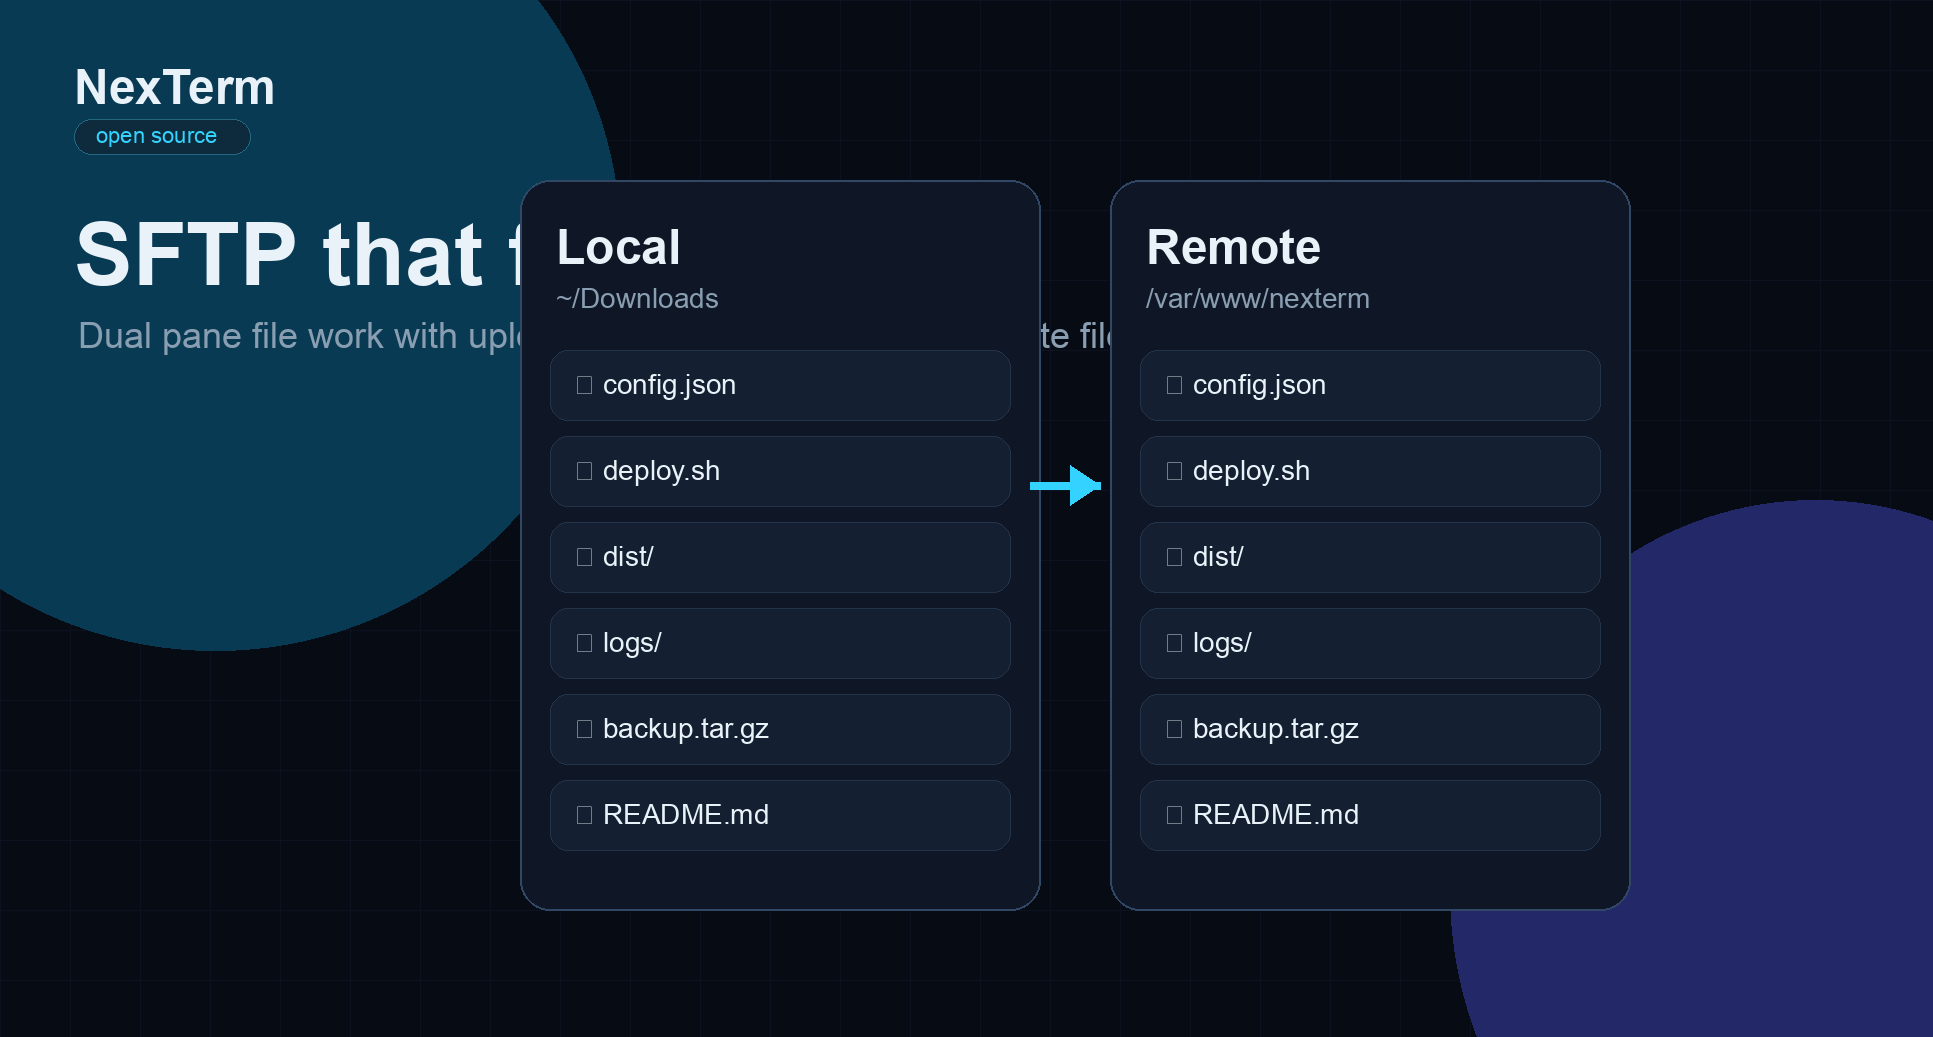
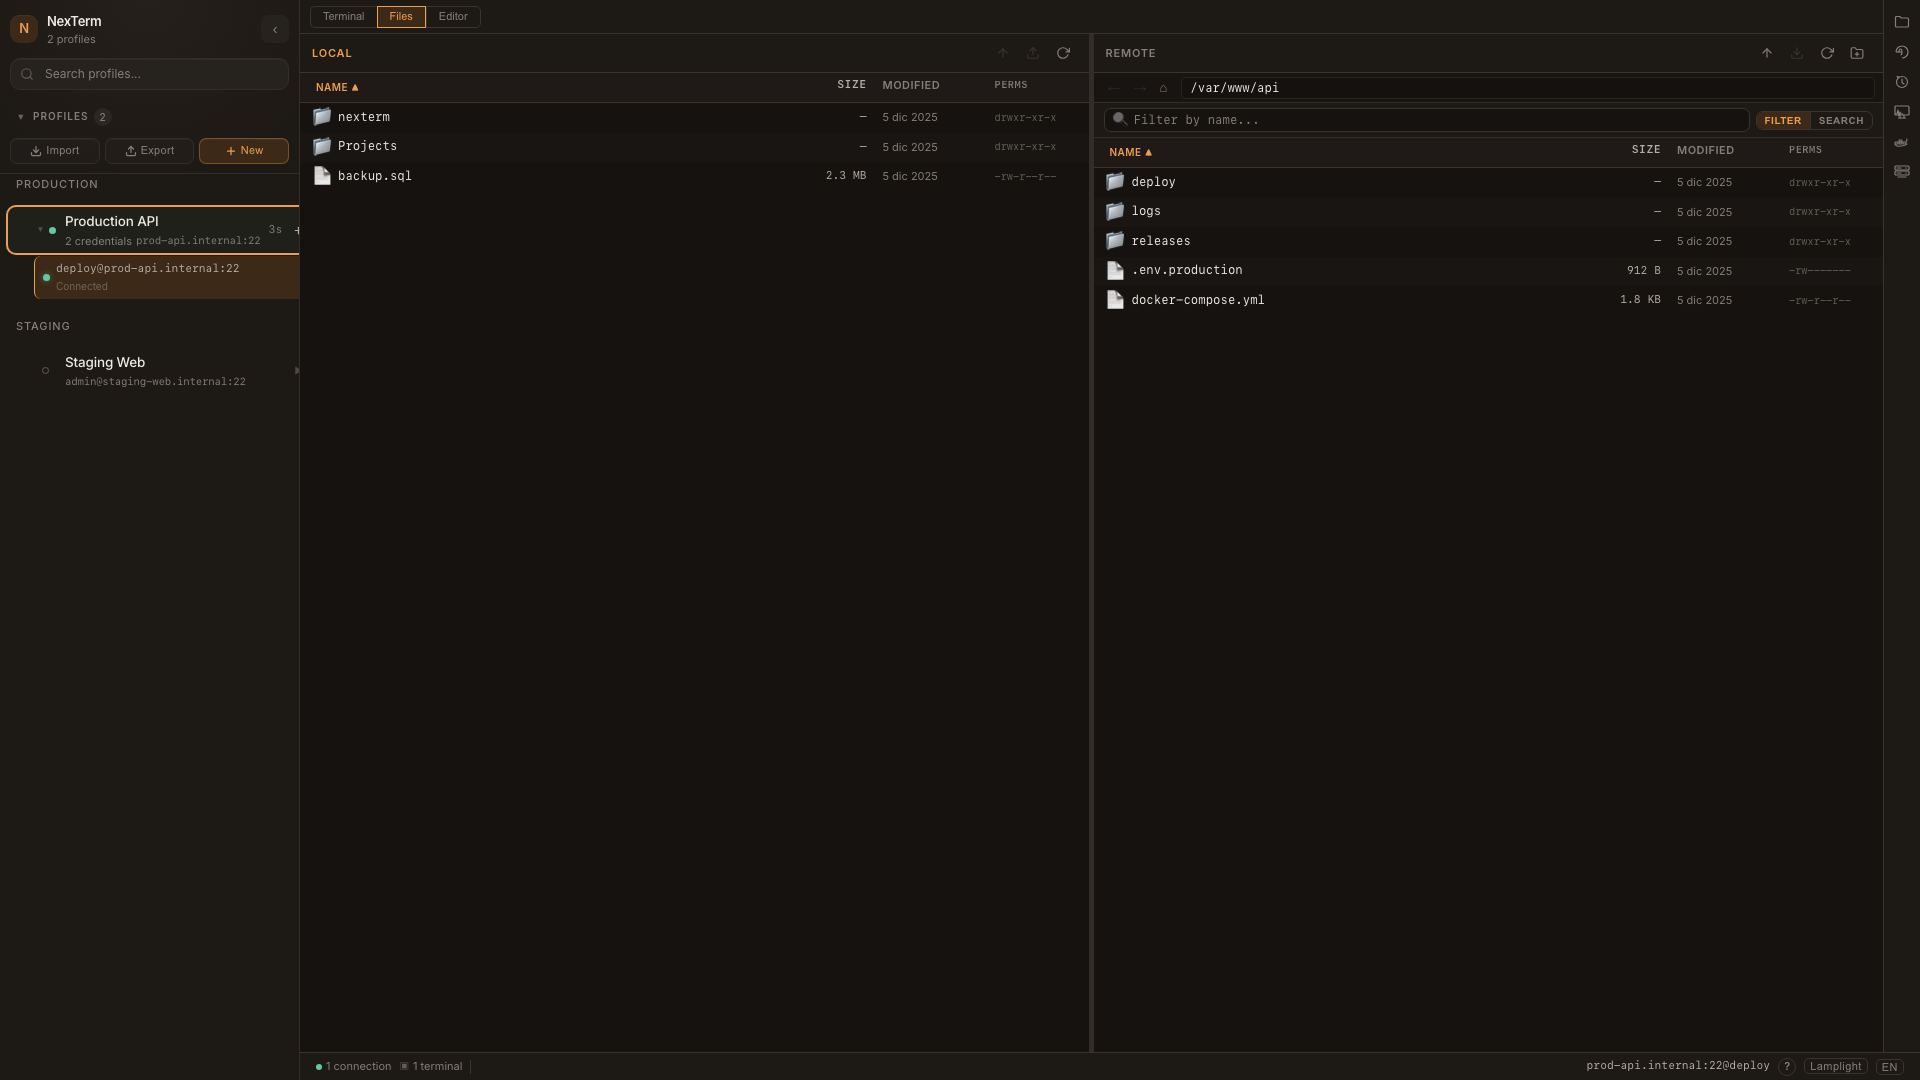
docs: update README screenshots and release notes

diff --git a/README.md b/README.md
@@ -5,7 +5,7 @@
 ### A modern open-source SSH workspace for people who live on servers.
 
 [![License: MIT](https://img.shields.io/badge/License-MIT-blue.svg)](LICENSE)
-[![macOS](https://img.shields.io/badge/macOS-supported-black?logo=apple&logoColor=white)](https://github.com/JeffersonAlvarez16/nexterm/releases)
+[![Latest release](https://img.shields.io/github/v/release/JeffersonAlvarez16/nexterm?label=latest)](https://github.com/JeffersonAlvarez16/nexterm/releases/latest)
 [![Tauri 2](https://img.shields.io/badge/Tauri-2-FFC131?logo=tauri&logoColor=white)](https://v2.tauri.app)
 [![Rust](https://img.shields.io/badge/Rust-backend-DEA584?logo=rust&logoColor=black)](https://www.rust-lang.org)
 [![React 19](https://img.shields.io/badge/React-19-61DAFB?logo=react&logoColor=black)](https://react.dev)
@@ -24,13 +24,15 @@ It is built with **Tauri 2**, **Rust**, **React 19** and **TypeScript**, so it s
 
 ## Preview
 
+Screenshots below are captured from the running NexTerm UI with local demo data. They are product captures, not marketing mockups.
+
 <div align="center">
 
-| Terminal | Profiles |
+| Workspace | Terminal |
 |:---:|:---:|
-| ![NexTerm terminal workspace](screenshots/terminal.png) | ![NexTerm profile editor](screenshots/profile-editor.png) |
-| SFTP | Tunnels |
-| ![NexTerm SFTP browser](screenshots/sftp.png) | ![NexTerm SSH tunnels](screenshots/tunnels.png) |
+| ![NexTerm workspace launchpad with saved profiles](screenshots/launchpad.png) | ![NexTerm terminal session with profile sidebar](screenshots/terminal.png) |
+| Profile editor | SFTP browser |
+| ![NexTerm profile editor dialog](screenshots/profile.png) | ![NexTerm dual-pane SFTP browser](screenshots/sftp.png) |
 
 </div>
 
@@ -42,8 +44,10 @@ Most SSH tools split your work across terminals, file-transfer clients, password
 
 - **One server, multiple users:** keep a single host profile and attach root, deploy, admin or personal users with separate credentials.
 - **Encrypted credential vault:** AES-256-GCM with Argon2id-derived keys. Credentials are not stored in plain text.
-- **SFTP built into the workflow:** browse, upload, download, search and manage files without leaving your session.
-- **Visual SSH tunnels:** create local and remote forwards without memorizing flags.
+- **Terminal-first workflow:** split panes, search, snippets, command history, input broadcast and GPU rendering fallback.
+- **SFTP built into the workflow:** browse, drag, drop, download folders recursively, resolve conflicts and edit local or remote files without leaving your session.
+- **Visual SSH tunnels:** create local, remote and dynamic SOCKS5 forwards without memorizing flags.
+- **Operations panels:** monitor remote systems and manage Docker containers or Proxmox LXC guests over SSH.
 - **Security-first desktop UX:** host-key verification, vault auto-lock, pastejacking protection, hardened local-file handling and single-instance protection.
 
 ---
@@ -52,37 +56,69 @@ Most SSH tools split your work across terminals, file-transfer clients, password
 
 ### Terminal
 
-- xterm.js powered terminal rendering
-- Multiple terminals per SSH session
-- Search, themes, Unicode and font support
-- Paste safety checks for risky multi-line commands
+- xterm.js powered terminal rendering with WebGL acceleration and DOM fallback
+- Multiple terminals, split panes and keyboard navigation between panes
+- Search/find bar, copy-on-select, smart paste and risky multi-line paste checks
+- Snippets with variable prompts and preview-before-execute safeguards
+- Optional command history capture and input broadcast for multi-pane workflows
 
-### SFTP
+### SFTP and editor
 
-- Dual-pane local and remote file browser
+- Full-area SFTP file browser plus terminal-side panel access
+- Dual-pane local and remote browsing
 - Upload, download, rename, delete and create folders
-- Conflict handling for file transfers
-- Remote file viewing and remote editor support
+- Recursive folder download with aggregate progress
+- Drag-and-drop transfers in both directions
+- Sequential conflict resolution for upload/download batches
+- Remote file viewing and local/remote file editing through Rust-backed file commands
 
 ### Profiles and credentials
 
 - One profile can hold multiple users
-- Password, key and agent-based auth flows
+- Password, key, SSH agent and keyboard-interactive/MFA auth flows
+- Key-file picker, SSH key generation and ProxyJump/bastion support
 - Encrypted vault with master password
 - Auto-lock after inactivity and defensive lock after suspend
+- Profile folders and startup command confirmation
 
 ### SSH operations
 
-- Local and remote tunnels
+- Local, remote and dynamic SOCKS5 tunnels
 - Monitoring panels for remote process/system views
-- Docker and Proxmox helper actions over SSH
-- Host-key trust-on-first-use with change detection
+- Docker helper actions over SSH
+- Proxmox LXC helper actions over SSH
+- Host-key trust-on-first-use with change, algorithm and revocation detection
 
-### Release and platform support
+### UI and accessibility
 
-- macOS Apple Silicon supported today
-- Linux and Windows builds are planned through the release workflow
-- Auto-update artifacts are configured through Tauri updater support
+- Theme presets and theme picker
+- Accessible dialogs, tablists, labels and focus states
+- English and Spanish interface strings
+
+---
+
+## Releases
+
+Latest documented version: **v0.2.3**. See [CHANGELOG.md](CHANGELOG.md) for the real per-release changes.
+
+### Recent releases
+
+| Version | Date | Highlights |
+|---|---:|---|
+| [v0.2.3](https://github.com/JeffersonAlvarez16/nexterm/releases/tag/v0.2.3) | 2026-06-06 | Hardened local-file handling and release security; bumped app metadata to 0.2.3. |
+| [v0.2.2](https://github.com/JeffersonAlvarez16/nexterm/releases/tag/v0.2.2) | 2026-06-05 | Security hardening, terminal split/search/snippet/history/broadcast work, SFTP conflict/full-area/editor flows, SSH auth upgrades, monitoring, Docker and Proxmox panels. |
+| 0.2.1 | 2026-04-29 | Workspace snapshots and recursive SFTP folder download. This entry is documented from the release branch/changelog history. |
+
+### Platform support
+
+The release workflow is configured to build macOS Apple Silicon, macOS Intel, Linux x64 and Windows x64 artifacts. Artifact availability depends on the latest successful GitHub Actions release run.
+
+| Platform | Release target |
+|---|---|
+| macOS Apple Silicon | `.dmg` / app bundle |
+| macOS Intel | `.dmg` / app bundle |
+| Linux x64 | `.deb` + `.AppImage` |
+| Windows x64 | `.msi` + `.exe` |
 
 ---
 
@@ -90,12 +126,7 @@ Most SSH tools split your work across terminals, file-transfer clients, password
 
 Download the latest build from GitHub Releases:
 
-| Platform | Status |
-|---|---|
-| macOS Apple Silicon | [Latest release](https://github.com/JeffersonAlvarez16/nexterm/releases/latest) |
-| macOS Intel | Planned |
-| Linux | Planned |
-| Windows | Planned |
+[Latest release](https://github.com/JeffersonAlvarez16/nexterm/releases/latest)
 
 > Current builds may be unsigned. On macOS, if Gatekeeper blocks the app, run:
 >
@@ -108,7 +139,7 @@ Download the latest build from GitHub Releases:
 ## Build from source
 
 ```bash
-# Requirements: Rust stable, Node.js 22+, pnpm and Tauri platform prerequisites
+# Requirements: Rust stable, Node.js 20+, pnpm and Tauri platform prerequisites
 
 git clone https://github.com/JeffersonAlvarez16/nexterm.git
 cd nexterm
@@ -149,9 +180,12 @@ NexTerm handles credentials and remote access, so security is part of the produc
 
 - Master password is never stored.
 - Vault data is encrypted at rest.
-- Host-key verification helps detect MITM risk.
+- Host-key verification helps detect MITM risk, including changed algorithms and revoked keys.
+- Credentials are not sent before host-key verification succeeds.
 - Clipboard and paste flows include safety affordances.
+- Unsafe SFTP names are rejected during recursive downloads.
 - Local file editing avoids arbitrary renderer-to-filesystem write IPC.
+- Local tunnel binds default to loopback.
 - Release builds use frozen dependency installs before signing and publishing.
 
 Found a vulnerability? Report it privately through [GitHub Security Advisories](https://github.com/JeffersonAlvarez16/nexterm/security/advisories).

diff --git a/CHANGELOG.md b/CHANGELOG.md
@@ -6,6 +6,61 @@ The format is based on Keep a Changelog, and this project adheres to Semantic Ve
 
 ## [Unreleased]
 
+## [0.2.3] - 2026-06-06
+
+### Security
+- Hardened local-file handling so file reads/writes go through Rust-backed commands instead of broad renderer filesystem IPC.
+- Hardened release security around frozen dependency installs and signed updater artifacts.
+
+### Changed
+- Bumped application metadata to `0.2.3` for the tagged release.
+
+## [0.2.2] - 2026-06-05
+
+### Added
+- Frontend test infrastructure with Vitest and CI checks for typecheck, tests, Rust formatting, clippy and Rust tests.
+- Terminal find/search with match counts, copy-on-select, smart key handling and right-click paste support.
+- Terminal snippets with NexTerm `{{var}}` grammar, variable prompts, live preview, password masking and preview-before-execute safeguards.
+- Collapsible and resizable terminal side panel for SFTP, tunnels and command history.
+- Split terminal panes with keyboard navigation, focus states and pane lifecycle management.
+- Input broadcast across panes with safety guards and warning UI.
+- Command history capture with opt-in storage, filtering and action buttons.
+- WebGL terminal rendering with DOM fallback.
+- Profile folders with folder-first sidebar grouping.
+- Theme presets, persisted theme store, theme picker, FOUC-safe theme application and LAMPLIGHT UI/theme work.
+- SFTP conflict detection and sequential conflict resolution for upload/download batches.
+- Dynamic SOCKS5 tunnels.
+- SSH key generation for Ed25519, RSA and ECDSA keys.
+- SSH exec primitives and Tauri command support.
+- Remote monitoring with metrics parsing, sampler task, frontend panel, sparklines and kill confirmation.
+- Docker panel and SSH-backed Docker command primitives.
+- Proxmox LXC panel and SSH-backed Proxmox command primitives.
+- Full-area SFTP file view with drag-and-drop transfers in both directions.
+- In-app local and remote file editor.
+
+### Changed
+- Upgraded `russh` from `0.48` to `0.50` and negotiated RSA SHA-2 for RSA keys.
+- Centralized SSH client configuration for connection and test-connection keepalive behavior.
+- Reworked layout so terminal state stays mounted while SFTP/tunnels can dock in the side panel.
+- Improved startup command preview/confirmation and dialog focus styling.
+
+### Fixed
+- Restored interactive SSH editor controls.
+- Treated host-key algorithm changes as dangerous.
+- Prevented credentials from being sent before host-key verification succeeds.
+- Rejected unsafe entry names in recursive SFTP downloads.
+- Matched OpenSSH hashed `known_hosts` entries and honored known-host revocations.
+- Closed empty-vault password bypass and hardened vault format handling.
+- Zeroized plaintext credentials across auth hops.
+- Defaulted local tunnel binds to loopback.
+- Fixed terminal hook ordering, xterm cleanup on disconnect and split-pane layout timing.
+- Fixed snippet and monitoring blank-screen loops caused by unstable object selectors.
+- Fixed private-key loading for PEM/PKCS#1 and PKCS#8 keys.
+- Fixed SFTP conflict decision leakage across operations and same-pane drag/drop handling.
+
+### Accessibility
+- Added tablist roles, accessible dialog names, `html[lang]` synchronization, keyboard/focus improvements and measured contrast corrections for theme presets.
+
 ## [0.2.1] - 2026-04-29
 
 ### Added
